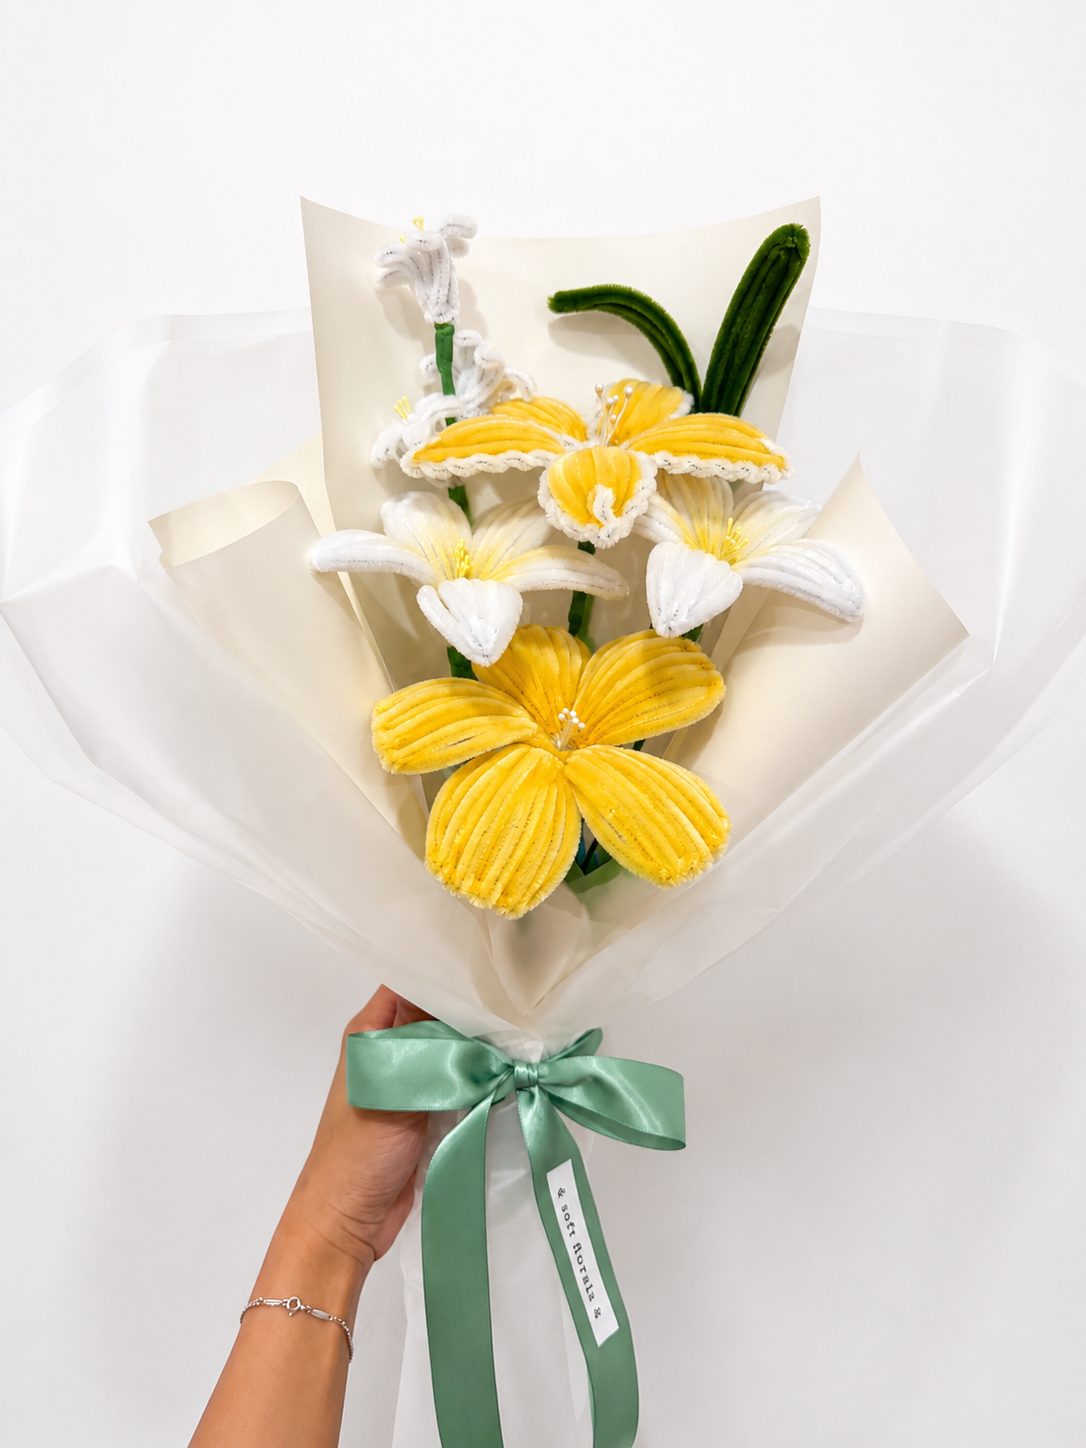
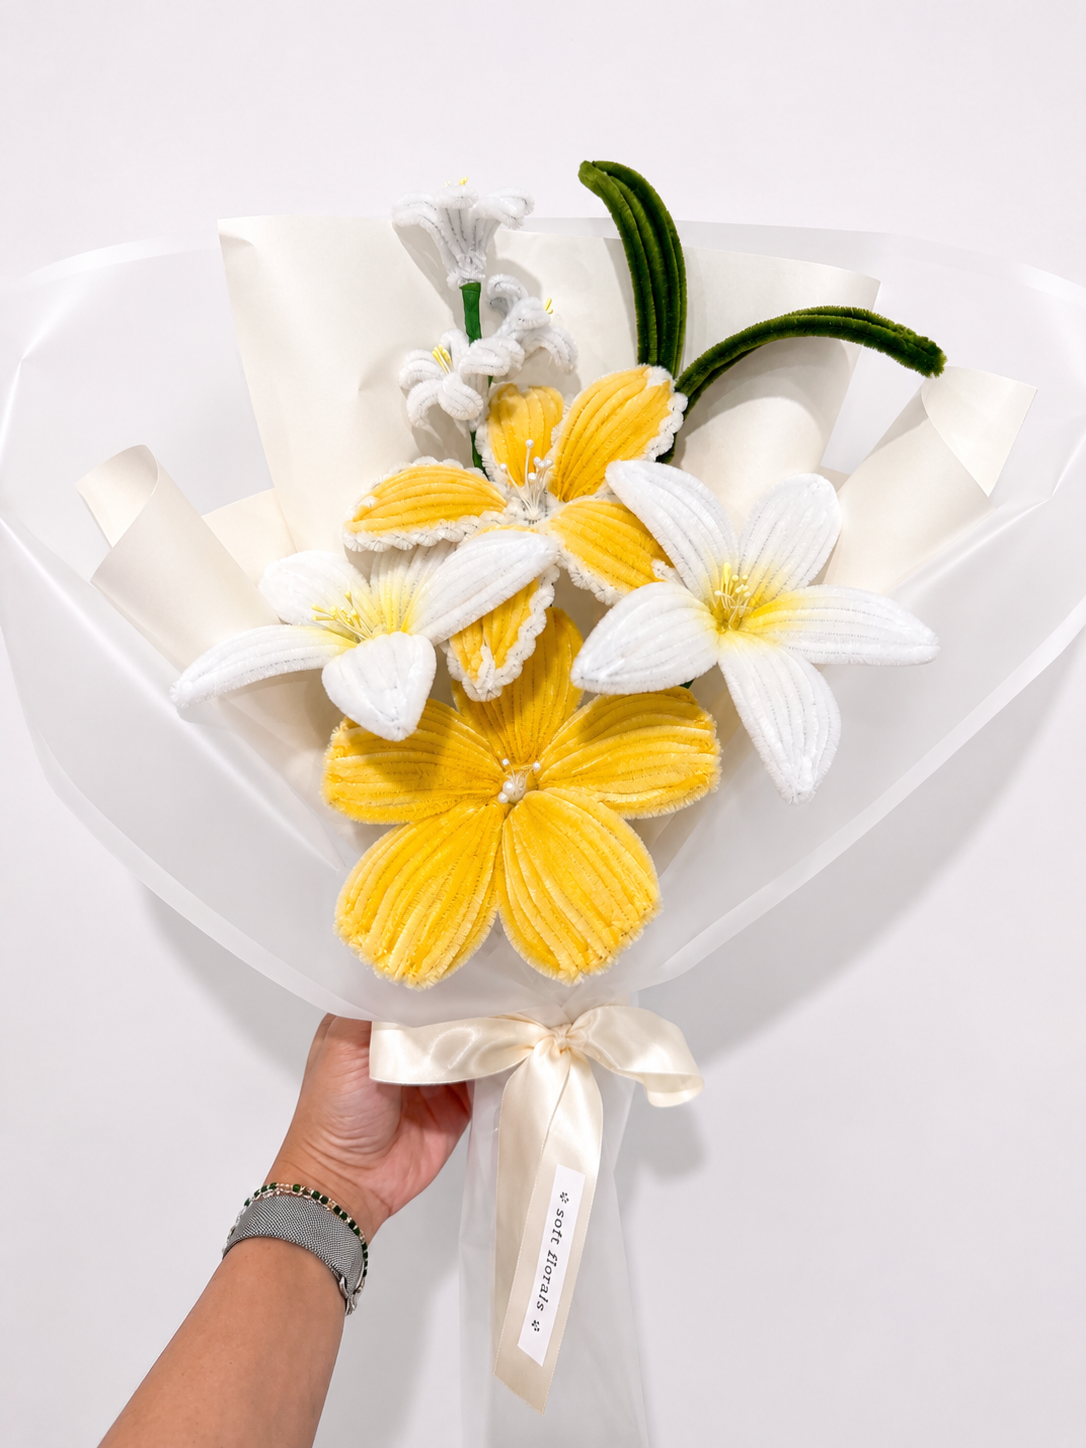
Refresh flower catalog: new photos, Soft Coral, Soft Pink Pop
- Swap in new product photos for Soft Yellow, Soft Blue, Soft Purple
- Rename Soft Pink to Soft Coral with new photo and copy
- Add new Soft Pink Pop bouquet
- Bump bouquet prices ($50/$100 to $60/$110)
- Update shipping copy with express/standard rates; trim FAQ care text

diff --git a/src/content/products.js b/src/content/products.js
@@ -10,7 +10,7 @@ export const products = {
       slug: 'soft-blue',
       name: 'Soft Blue',
       category: 'Bouquets',
-      price: 50,
+      price: 60,
       image: '/images/products/soft-blue.png',
       images: ['/images/products/soft-blue.png'],
       hasPhoto: true,
@@ -22,7 +22,7 @@ export const products = {
       slug: 'soft-purple',
       name: 'Soft Purple',
       category: 'Bouquets',
-      price: 50,
+      price: 60,
       image: '/images/products/soft-purple.png',
       images: [
         '/images/products/soft-purple.png',
@@ -34,26 +34,34 @@ export const products = {
         'A romantic bouquet in every shade of purple — hand-twisted lilac lilies and tulips, crisp white florals and one rich deep-purple rose at the centre, layered with greenery and wrapped in lavender tissue and a cloud of sheer tulle. Finished with a wide satin ribbon. Soft, considered and quietly luxurious.',
     },
     {
-      slug: 'soft-pink',
-      name: 'Soft Pink',
+      slug: 'soft-coral',
+      name: 'Soft Coral',
       category: 'Bouquets',
-      price: 50,
-      image: '/images/products/soft-pink.png',
-      images: [
-        '/images/products/soft-pink.png',
-        '/images/products/soft-pink-alt.png',
-        '/images/products/soft-pink-blossom.png',
-      ],
+      price: 60,
+      image: '/images/products/soft-coral.png',
+      images: ['/images/products/soft-coral.png'],
       hasPhoto: true,
-      blurb: 'A sweet pink bouquet of lilies, tulips and rich rose-pink carnations.',
+      blurb: 'A warm coral posy of hand-twisted lilies in blush, coral and crisp white.',
       description:
-        'A romantic bouquet in every shade of pink — hand-twisted blush lilies and tulips, crisp white florals and rich rose-pink carnations, layered with greenery and wrapped in soft pink tissue and a cloud of sheer tulle. Finished with a wide blush satin ribbon. Sweet, considered and quietly luxurious.',
+        'A soft bouquet in warm coral tones — hand-twisted lilies in blush and coral pink alongside a crisp white bloom, layered with greenery and wrapped in cream tissue and a cloud of sheer tulle. Finished with a pink satin ribbon. Sweet, warm and quietly luxurious.',
+    },
+    {
+      slug: 'soft-pink-pop',
+      name: 'Soft Pink Pop',
+      category: 'Bouquets',
+      price: 60,
+      image: '/images/products/soft-pink-pop.png',
+      images: ['/images/products/soft-pink-pop.png'],
+      hasPhoto: true,
+      blurb: 'A pretty pink posy with a bold pop of red lily at its heart.',
+      description:
+        'A playful bouquet in soft pink with a pop of colour — hand-twisted blush lilies and crisp white blossoms gathered around one bright red lily at the centre, layered with greenery and wrapped in cream tissue and a cloud of sheer tulle. Finished with a pink satin ribbon. Sweet, cheerful and quietly luxurious.',
     },
     {
       slug: 'soft-yellow',
       name: 'Soft Yellow',
       category: 'Bouquets',
-      price: 50,
+      price: 60,
       image: '/images/products/soft-yellow.png',
       images: ['/images/products/soft-yellow.png'],
       hasPhoto: true,
@@ -62,10 +70,22 @@ export const products = {
         'A cheerful bouquet in every shade of yellow — hand-twisted buttery tulips, crisp white lilies and round pom-pom chrysanthemums in pale yellow, layered with greenery and wrapped in cream tissue and a cloud of sheer tulle. Finished with a wide pale-yellow satin ribbon. Soft, sunny and quietly luxurious.',
     },
     {
+      slug: 'soft-roses',
+      name: 'Soft Roses',
+      category: 'Bouquets',
+      price: 60,
+      image: '/images/products/soft-roses.png',
+      images: ['/images/products/soft-roses.png'],
+      hasPhoto: true,
+      blurb: 'A classic posy of deep red roses and crisp white lilies in soft white wrap.',
+      description:
+        'A timeless little bouquet of hand-twisted deep red roses, paired with crisp white lilies and curling greenery. Wrapped in soft white tissue and finished with a wide sage-green satin ribbon. Romantic, classic and made to last — the forever version of the roses you always wished would stay.',
+    },
+    {
       slug: 'peach-sorbet',
       name: 'Peach Sorbet',
       category: 'Bouquets',
-      price: 100,
+      price: 110,
       image: '/images/products/peach-sorbet.png',
       images: ['/images/products/peach-sorbet.png'],
       hasPhoto: true,
@@ -78,7 +98,7 @@ export const products = {
       slug: 'lilac-crush',
       name: 'Lilac Crush',
       category: 'Bouquets',
-      price: 100,
+      price: 110,
       image: '/images/products/lilac-crush.png',
       images: ['/images/products/lilac-crush.png'],
       hasPhoto: true,
@@ -91,7 +111,7 @@ export const products = {
       slug: 'twilight-bloom',
       name: 'Twilight Bloom',
       category: 'Bouquets',
-      price: 100,
+      price: 110,
       image: '/images/products/twilight-bloom.png',
       images: ['/images/products/twilight-bloom.png'],
       hasPhoto: true,

diff --git a/src/content/faq.js b/src/content/faq.js
@@ -4,11 +4,11 @@ export const faq = {
   items: [
     {
       q: 'How long until my order arrives?',
-      a: 'Ready-made pieces ship within 2–3 business days from our Melbourne studio. Custom orders take 1–3 weeks depending on size. Australia-wide delivery is 2–5 days — we ship within Australia only. We will send a tracking link the moment your order goes out.',
+      a: 'Ready-made pieces ship within 2–3 business days from our Melbourne studio. Custom orders take 1–3 weeks depending on size. For Australia-wide delivery, express shipping is $15 (1–3 business days) and standard shipping is $10 (3–6 business days) — we ship within Australia only. We will send a tracking link the moment your order goes out.',
     },
     {
       q: 'Can my flowers be left at the door if no one is home?',
-      a: 'Yes — and that is one of the lovely things about soft florals. They do not wilt, do not need water, and do not mind a hot or cold doorstep. We pack everything in a cushioned box so it is happy waiting until someone gets home.',
+      a: 'Yes — and that is one of the lovely things about soft florals. They do not wilt, do not need water, and do not mind a hot or cold doorstep.',
     },
     {
       q: 'Can I change or cancel my order after placing it?',
@@ -24,7 +24,7 @@ export const faq = {
     },
     {
       q: 'How do I care for them?',
-      a: 'That is the best part — you barely do anything. Keep them out of direct sunlight to prevent fading, and give them a gentle dust with a soft brush or hairdryer on cool setting every few months. They will look perfect for years.',
+      a: 'That is the best part — you barely do anything. Keep them out of direct sunlight to prevent fading, and give them a gentle dust with a soft brush every few months. They will look perfect for years.',
     },
     {
       q: 'Do you take custom orders?',

diff --git a/src/content/productPanels.js b/src/content/productPanels.js
@@ -4,7 +4,7 @@ export const productPanels = [
   {
     id: 'shipping',
     title: 'Shipping & delivery',
-    body: 'Ready-made pieces ship in 2 to 3 business days. We post Australia-wide with tracked shipping. Every order is wrapped in soft tissue inside a cushioned box so it arrives looking perfect.',
+    body: 'Ready-made pieces ship in 2 to 3 business days. We post Australia-wide with tracked shipping — express is $15 (1–3 business days) and standard is $10 (3–6 business days). Every order is wrapped in soft tissue inside a cushioned box so it arrives looking perfect.',
   },
   {
     id: 'care',